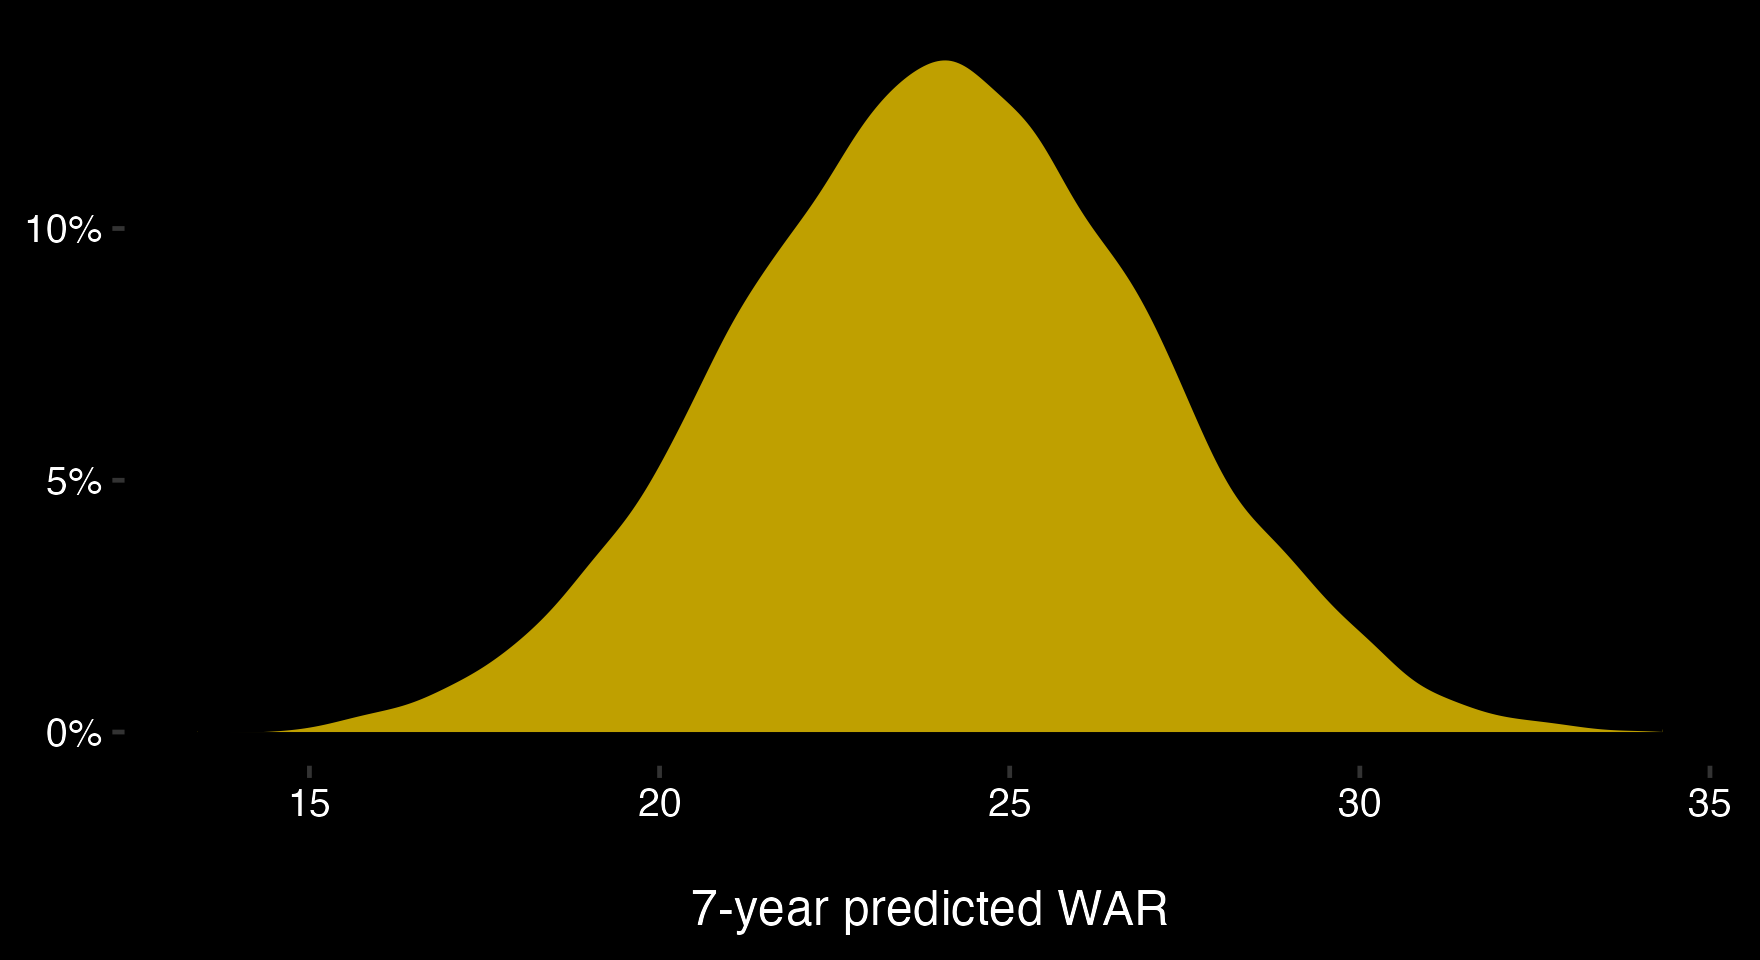
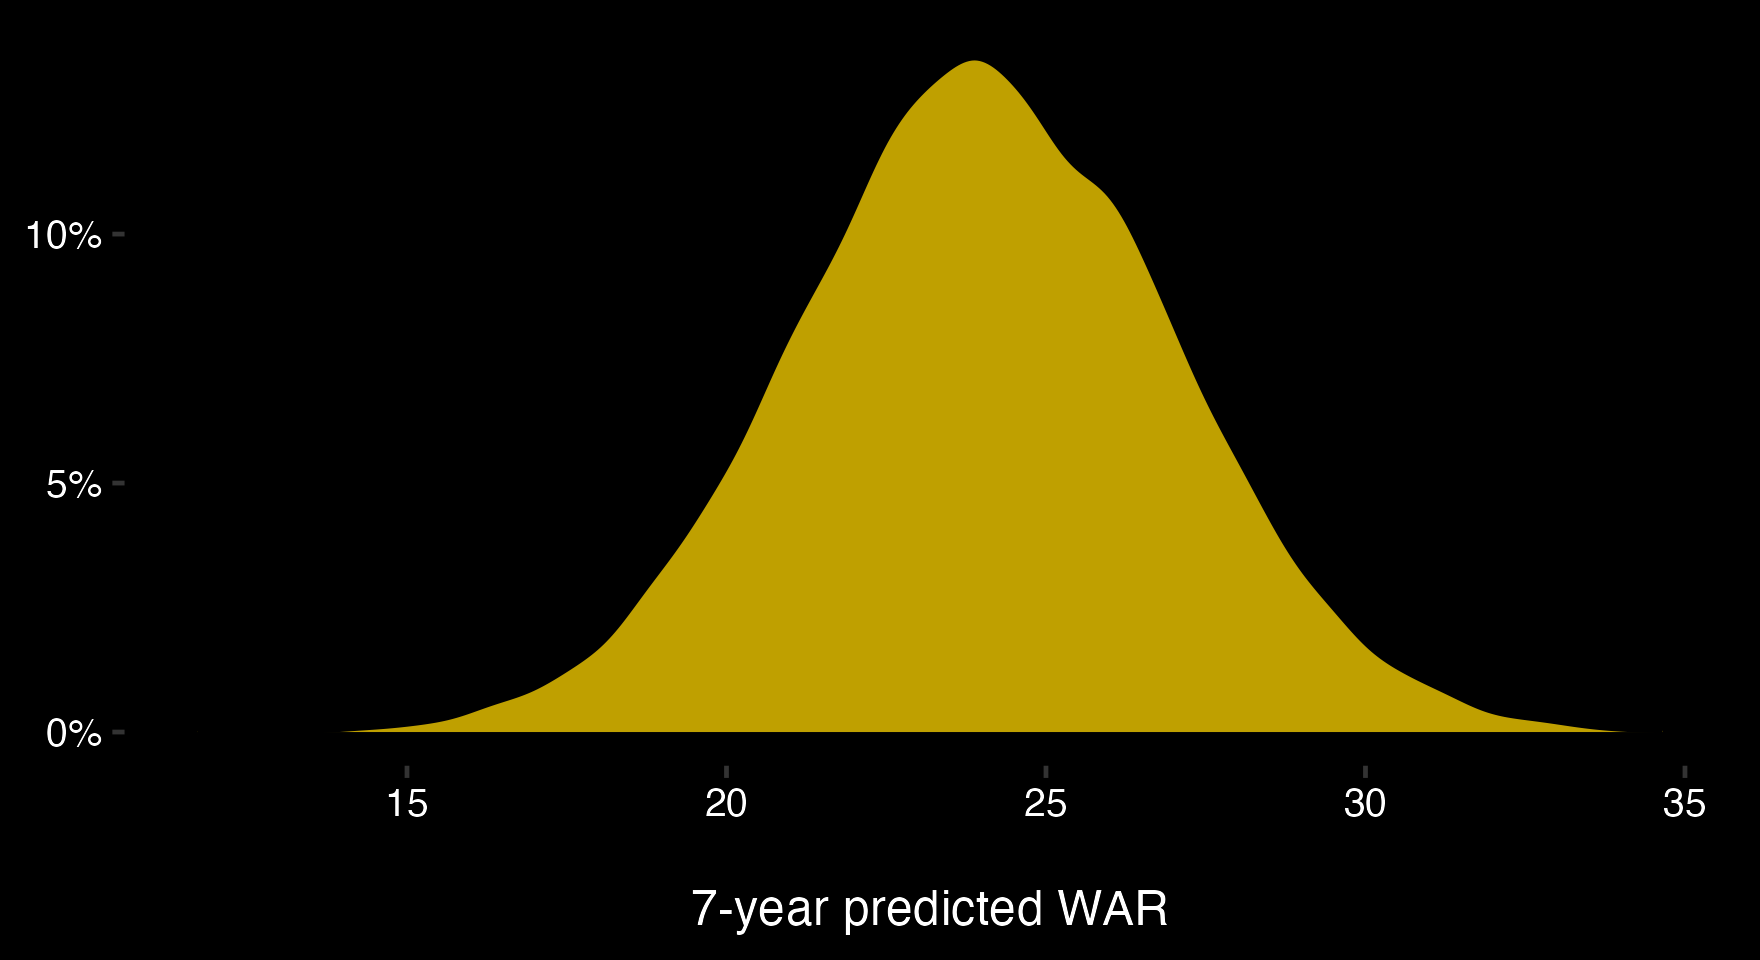
big changes

diff --git a/_posts/2023-06-25-draft-probabilities-4.md b/_posts/2023-06-25-draft-probabilities-4.md
@@ -1,7 +1,7 @@
 ---
 layout: post
 title:  "NHL Draft: Enhancing the Draft Pick Value Framework"
-date:   2023-07-05 12:00:00 -0400
+date:   2023-07-01 12:00:00 -0400
 ---
 <head>
 <!-- Google tag (gtag.js) -->
@@ -16,11 +16,11 @@ date:   2023-07-05 12:00:00 -0400
 </head>
 <h2>Enhancing the Draft Pick Value Framework</h2>
 <p>
-In <a href="https://spazznolo.github.io/2023/06/20/draft-probabilities-3.html">An Application of Prospect Pick Probabilities</a>, I outlined a potential real-world use case for Prashanth Iyer and I's <a href="https://piyer97.shinyapps.io/NHLDraft2023/">draft probability tool</a>. It introduced a new perspective on draft pick value. Here, I extend the methodology to include prospect value uncertainty. Then, I build a framework to optimize pick value.
+In <a href="https://spazznolo.github.io/2023/06/20/draft-probabilities-3.html">An Application of Prospect Pick Probabilities</a>, I introduced a new perspective on draft pick value using Prashanth Iyer and I's <a href="https://piyer97.shinyapps.io/NHLDraft2023/">draft probability tool</a>. Here, I extend the methodology to include prospect value uncertainty. Then I build a framework to optimize pick value.
 </p>
 <p>
 <h5>Accounting for Uncertainty</h5>
-One of the main considerations for teams drafting in the 2-7 spot was whether they should risk their extremely valuable lottery pick on Matvei Michkov. He signed a 3-year contract in Russia. He only met with a few teams. He might be the most talented player in the draft. He may never come to North America... etc. Essentially, the question these teams are asking is this: is it worth drafting Michkov's uncertainty when more reliable, though perhaps less skilled, players are available? Once again, teams have to make a complex calculation. Once again, they're left with mostly instinct.
+One of the main considerations for teams drafting in the 2-7 spot this year was whether they should risk their extremely valuable lottery pick on Matvei Michkov. He signed a 3-year contract in Russia. He only met with a few teams. He might be the most talented player in the draft. He may never come to North America... etc. Essentially, the question these teams were asking is this: is it worth drafting Michkov's uncertainty when more reliable, though perhaps less skilled, players are available? Once again, teams have to make a complex calculation. Once again, they're left with mostly instinct.
 </p>
 <p>
 Unless!
@@ -32,47 +32,50 @@ Unless, prospect value uncertainty is quantified and included in the decision pr
 Adapting the previous post to include uncertainty is actually easy. Instead of assigning prospect values through point estimates (Bedard was at 24 WAR, Michkov at 17.5), prospects are assigned <a href="https://www.scribbr.com/statistics/probability-distributions/#:~:text=A%20probability%20distribution%20is%20a,using%20graphs%20or%20probability%20tables.">probability distributions</a> which reflect the uncertainty of their value. 
 </p>
 <p>
-As an example: instead of Bedard's value being 24 WAR, it will be normally distributed with mean 24 and standard deviation x. Here's what that looks like:
+As an example: instead of Bedard's value being 24 WAR, it will be normally distributed with mean 24 and standard deviation 3. Here's what that looks like:
 </p>
 <p>
-<div style="text-align: center"> <img src="https://spazznolo.github.io/figs/draft-probabilities-4-1.png" width="85%" length="125"/></div>
+<div style="text-align: center"> <img src="https://spazznolo.github.io/figs/draft-probabilities-4-1.png" width="60%" length="150"/></div>
 </p>
 <p>
-In this illustration:
-  - Bedard has a xx% chance of providing xx-xx WAR.
-  - Bedard has a xx% chance of providing xx+ WAR.
-  - Bedard has a xx% chance of providing -xx WAR.
+In this example:
+  - Bedard has a 50% chance of providing 22-26 WAR.
+  - Bedard has a 25% chance of providing 26+ WAR.
+  - Bedard has a 25% chance of providing -22 WAR.
 </p>
 <p>
-Much like the point estimates in the first post, the actual distribution doesn't matter, it's just an example to illustrate the framework I'm introducing.
+Like the point estimates in the first post, the actual distribution doesn't matter, it's just an example to illustrate the framework I'm introducing.
 </p>
 <p>
 <h5>Assigning Uncertainty</h5>
-We assign probability distributions to all players and make sure to assign higher uncertainty to Michkov through a higher standard deviation. Then, these probability distributions are multiplied by the probability a prospect is available, as in the previous post.
+Next, each player is assigned a value distribution, making sure Michkov's value has higher uncertainty by increasing the standard deviation of his distribution. Then, these probability distributions are multiplied by the probability a prospect is available at each pick, as in the previous post.
 </p>
 <p>
 Prospect values now look like this:
 </p>
 <p>
-<div style="text-align: center"> <img src="https://spazznolo.github.io/figs/draft-probabilities-4-2.png" width="85%" length="125"/></div>
+<div style="text-align: center"> <img src="https://spazznolo.github.io/figs/draft-probabilities-4-2.png" width="60%" length="150"/></div>
 </p>
 <p>
 ... and pick values now look like this:
 </p>
-image
 <p>
-An interesting result of these probability distributions is that the estimated pick value derived with the point estimate will change. In particular, highly uncertain players will cause the estimated value to shift away from them.
+<div style="text-align: center"> <img src="https://spazznolo.github.io/figs/draft-probabilities-4-3.png" width="60%" length="150"/></div>
+</p>
 <p>
 The probability distributions offer some bonuses:
-  - the expected value (median WAR) will be more accurate.
-  - can estimate the probability that a given pick will be more valuable than another.
-  - 
+  - there is now a difference between the mean and median WAR.
+  - we can now estimate the probability that a given pick will be more valuable than another.
+  - higher certainty player cause pick values to shift towards them.
+</p>
+<p>
+SHOW EXAMPLE OF NEW PICK VALUES
 </p>
 <p>
 <h5>Optimization</h5>
 The optimization of draft value in the NHL is similar to that of a fantasy draft for a sportsbook (include link to roster optimization), and has been explored specifically for the NHL <a href="http://statsportsconsulting.com/main/wp-content/uploads/Nandakumar_PerfectDraft-1.pdf">here</a>. In this section, I'll optimize draft value by combining the pick probabilities in our draft tool with the prospect value distributions assigned above.
 </p>
-Red Wings
+To illustrate
 <p>
 </p>
 <p>

diff --git a/_posts/2023-06-20-draft-probabilities-3.md b/_posts/2023-06-20-draft-probabilities-3.md
@@ -22,7 +22,7 @@ The prospect pick probabilities available on the "Draft Pick Probabilities" tab 
 The Canadiens pick fifth, which, according to consensus, is just outside the top tiers of prospects consisting of Connor Bedard, Adam Fantilli, Matvei Mitchkov, and Leo Carlsson. The next "tier", contains a handful of players which ranking publications seem to mostly disagree on. One common question is, if you're the Canadiens, do you trade up to guarantee the drafting of a potential superstar, or do you take the risk and hope one of them slides in the draft? However a more interesting question, in my opinion, is: "How are you making this decision?"
 </p>
 <p>
-The truth is that either way you're leaning, you are making a complex calculation with instinct. You're considering 1) the value of each prospect, 2) the probability of each prospect being available at a given pick, and 3) the appropriate cost in assets to move up in the draft. This is an exceedingly difficult calculation to make in the moment, especially in the heat of the draft. 
+The truth is that either way you're leaning, you are making a complex calculation with instinct. You're considering 1) the value of each prospect, 2) the probability each prospect is available at a given pick, and 3) the appropriate cost in assets to move up in the draft. This is an exceedingly difficult calculation to make in the moment, especially in the heat of the draft. 
 </p>
 <p>
 Thankfully, the probabilities in this tool can help.
